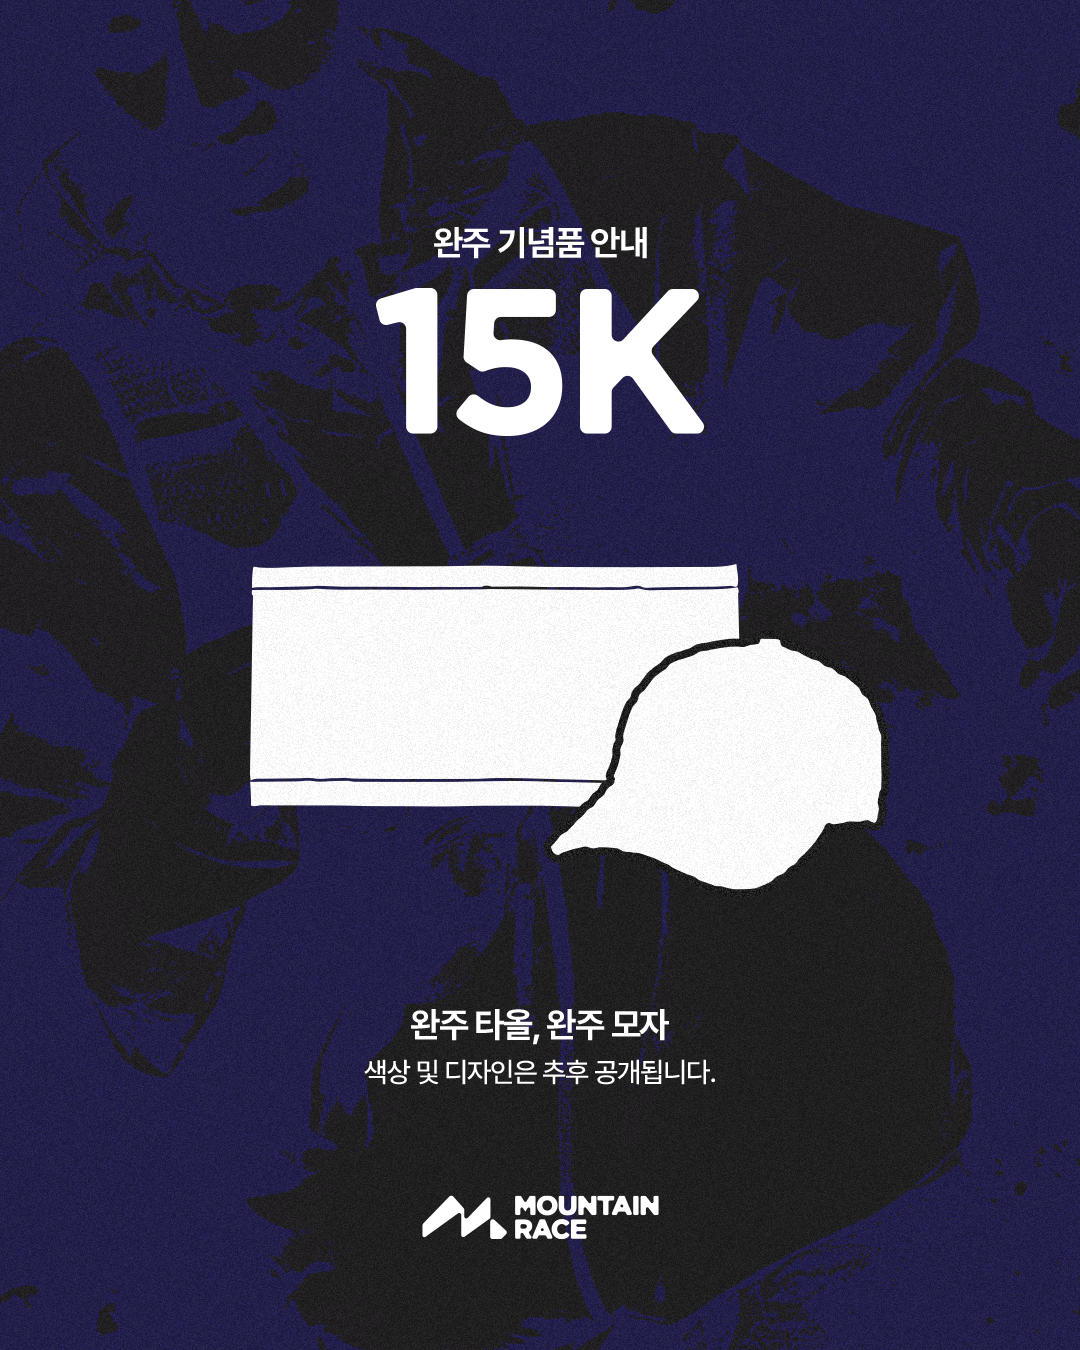
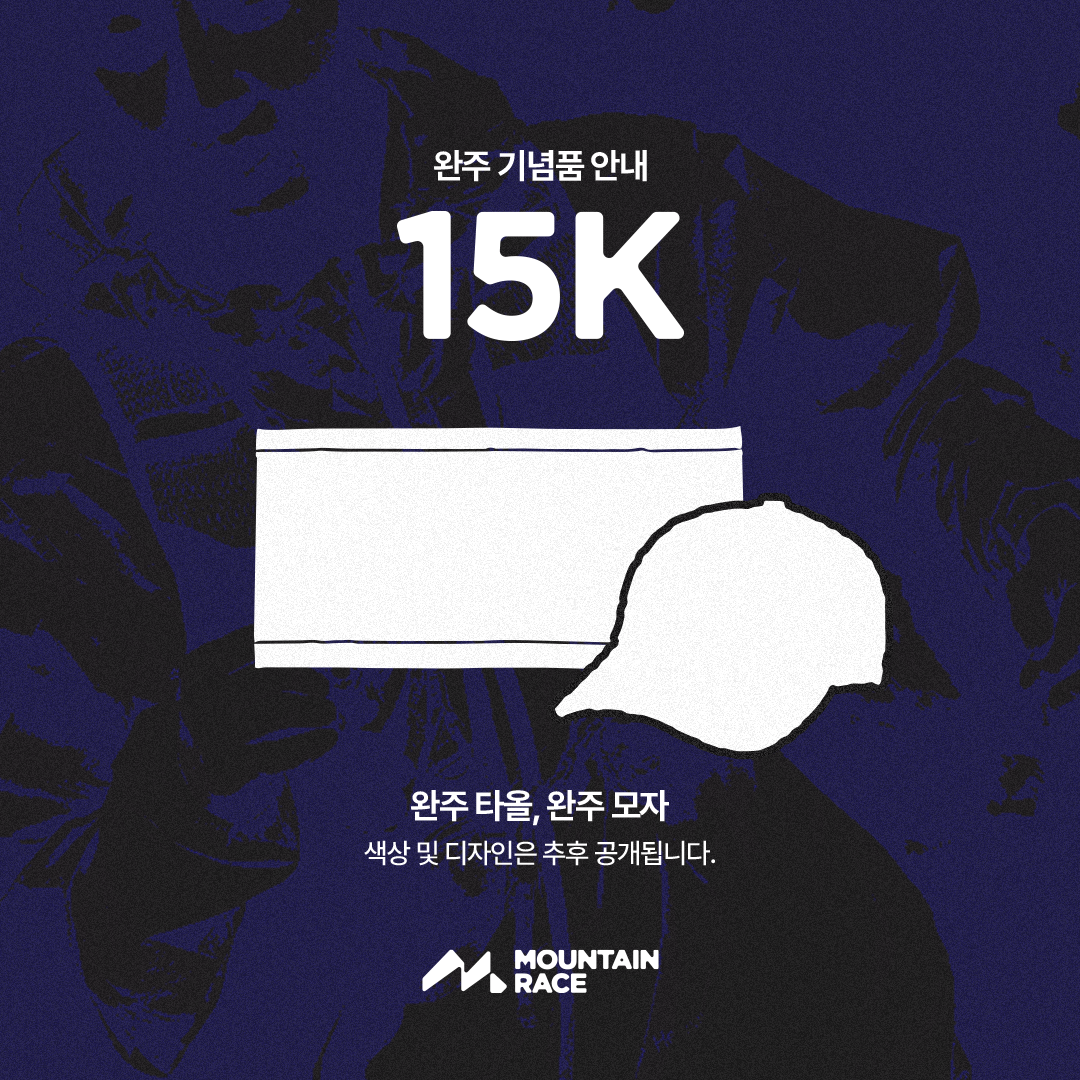
fix: 스피드 컵 텍스트 제거 및 완주 기념 이미지 정방형 변경

diff --git a/15k-team.html b/15k-team.html
@@ -1411,12 +1411,12 @@
         <img src="https://cdn.imweb.me/upload/S202602111e47a452310e3/12505bd0f627f.jpg" alt="배번">
       </div>
     </div>
-
-    <!-- 스피드컵 & 파트너사 기프트 -->
+    
+    <!-- 파트너사 기프트 -->
     <div class="pkg-block">
-      <div class="pkg-block-label">스피드컵 &amp; 파트너사 기프트</div>
+      <div class="pkg-block-label">파트너사 기프트</div>
       <div class="pkg-placeholder">
-        <img src="https://cdn.imweb.me/upload/S202602111e47a452310e3/12505bd0f627f.jpg" alt="스피드컵 & 파트너사 기프트">
+        <img src="https://cdn.imweb.me/upload/S202602111e47a452310e3/12505bd0f627f.jpg" alt="파트너사 기프트">
       </div>
     </div>
 

diff --git a/15k.html b/15k.html
@@ -1344,11 +1344,11 @@
       </div>
     </div>
 
-    <!-- 스피드컵 & 파트너사 기프트 -->
+    <!-- 파트너사 기프트 -->
     <div class="pkg-block">
-      <div class="pkg-block-label">스피드컵 &amp; 파트너사 기프트</div>
+      <div class="pkg-block-label">파트너사 기프트</div>
       <div class="pkg-placeholder">
-        <img src="https://cdn.imweb.me/upload/S202602111e47a452310e3/12505bd0f627f.jpg" alt="스피드컵 & 파트너사 기프트">
+        <img src="https://cdn.imweb.me/upload/S202602111e47a452310e3/12505bd0f627f.jpg" alt="파트너사 기프트">
       </div>
     </div>
 

diff --git a/35k.html b/35k.html
@@ -1305,11 +1305,11 @@
       </div>
     </div>
 
-    <!-- 스피드컵 & 파트너사 기프트 -->
+    <!-- 파트너사 기프트 -->
     <div class="pkg-block">
-      <div class="pkg-block-label">스피드컵 &amp; 파트너사 기프트</div>
+      <div class="pkg-block-label">파트너사 기프트</div>
       <div class="pkg-placeholder">
-        <img src="https://cdn.imweb.me/upload/S202602111e47a452310e3/12505bd0f627f.jpg" alt="스피드컵 & 파트너사 기프트">
+        <img src="https://cdn.imweb.me/upload/S202602111e47a452310e3/12505bd0f627f.jpg" alt="파트너사 기프트">
       </div>
     </div>
 
